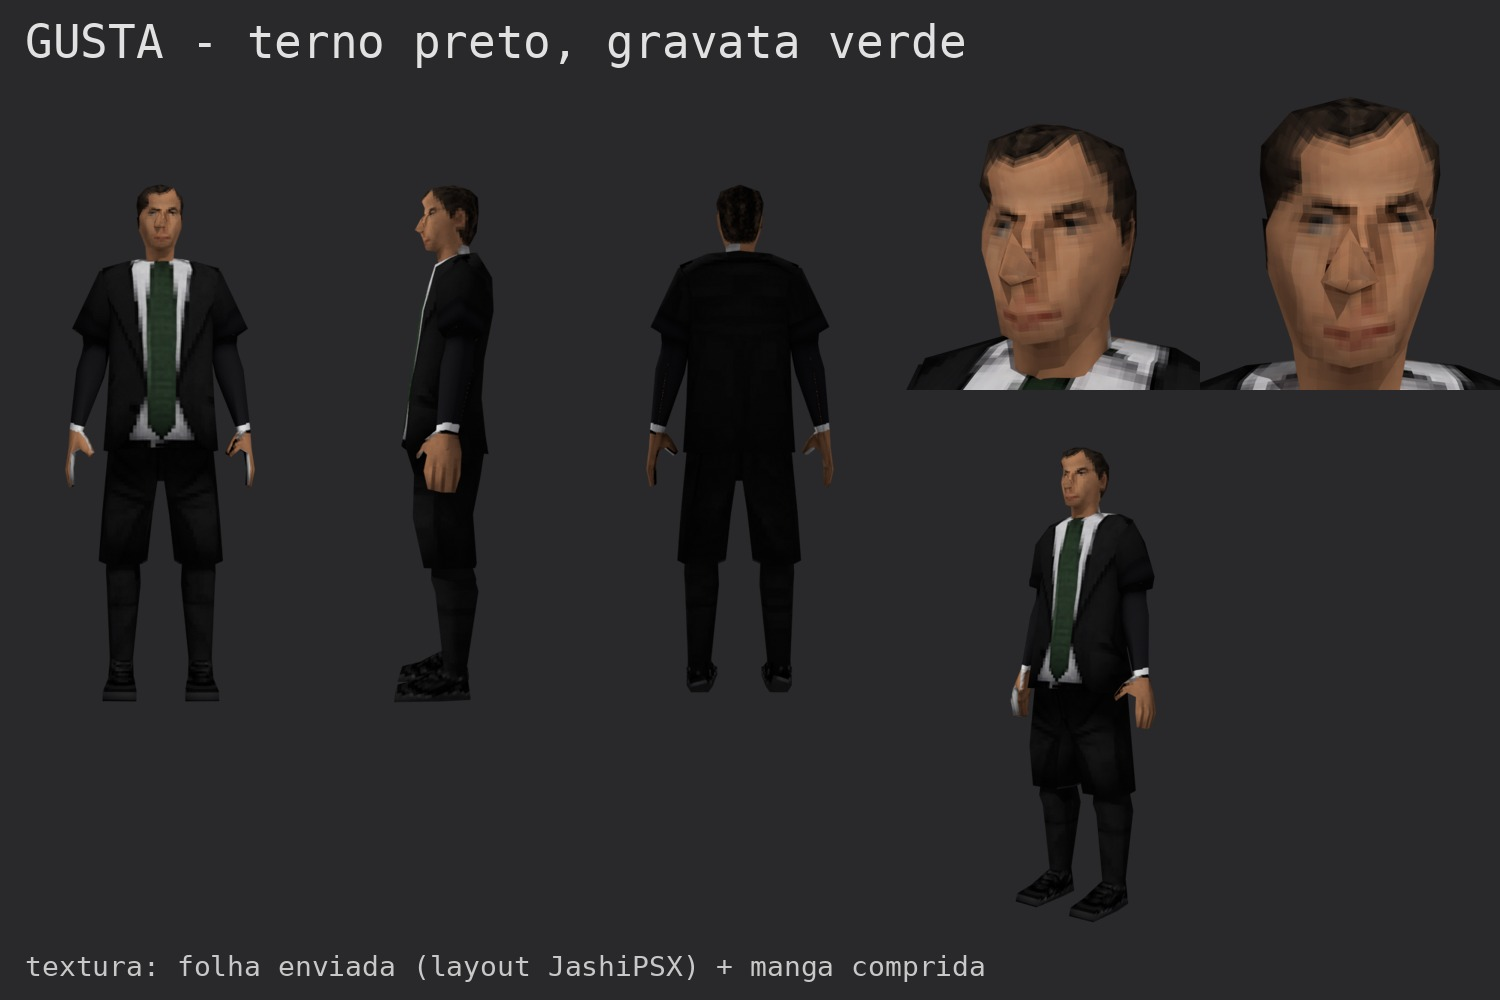
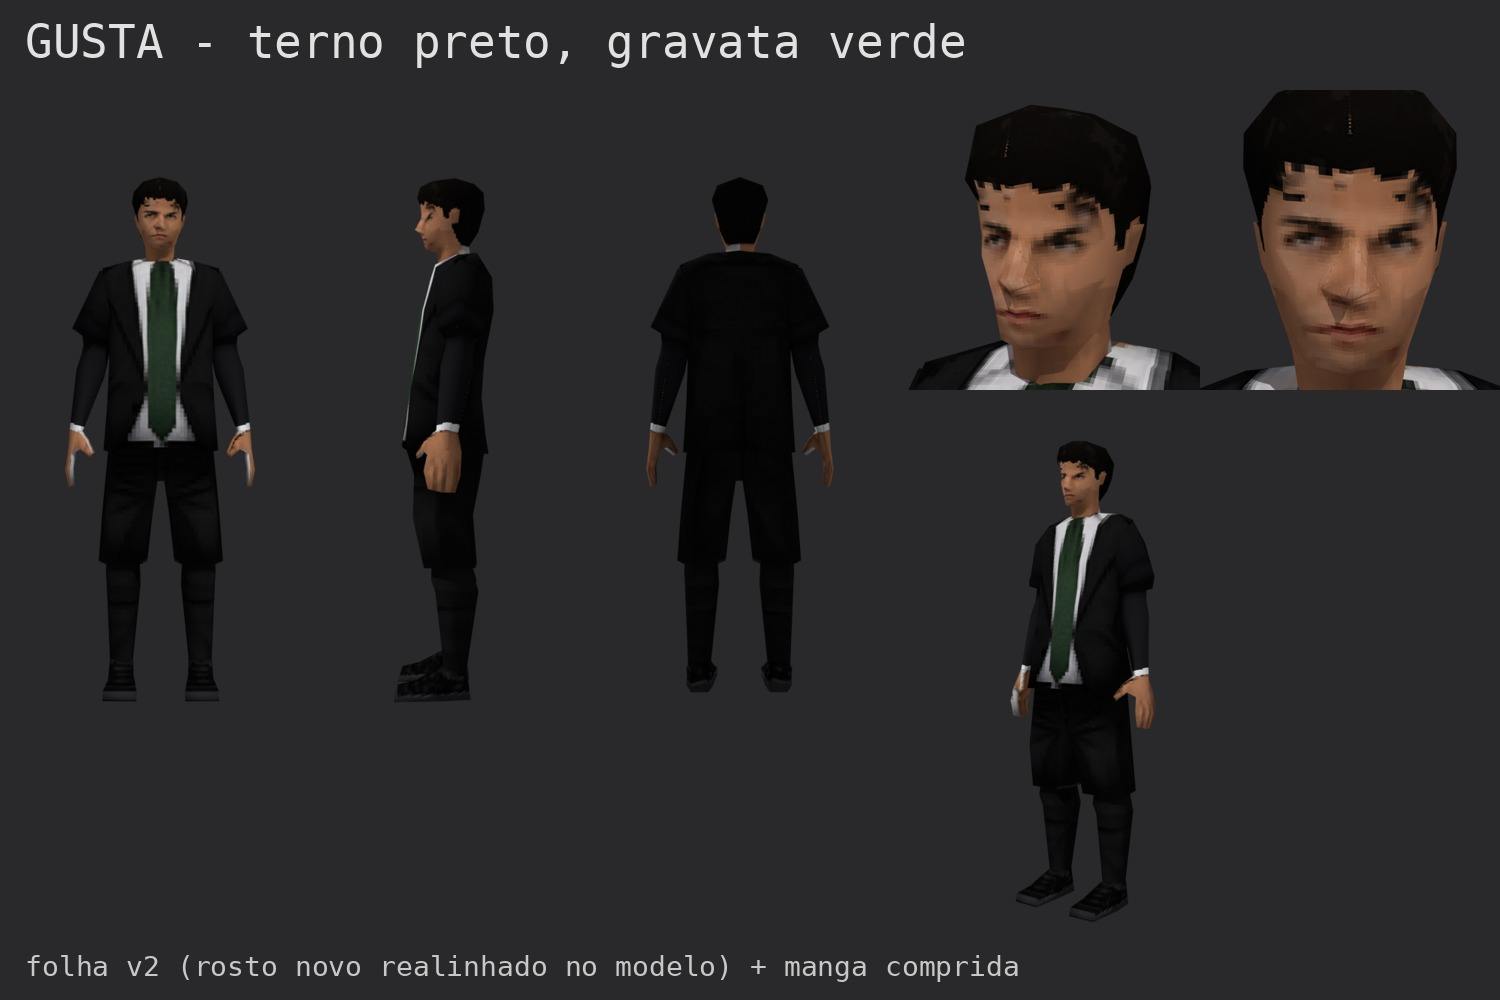
Gusta v2: rosto novo realinhado aos olhos/boca do modelo, cabelo refeito na forma original
Claude-Session: https://claude.ai/code/session_01PVUNKmUDvaP2jpRAvnz1fM

diff --git a/tools/realinhar_rosto.py b/tools/realinhar_rosto.py
@@ -1,0 +1,69 @@
+"""Realinha o rosto de uma folha (layout do Simple PSX Character) desenhada fora de escala: cada texel da frente
+da cabeça busca a cor na folha pela posição 3D (projeção de frente) -> marcos (olhos, boca, queixo, testa) da folha.
+Uso: realinhar_rosto.py tris.json folha.png saida.png "olhoD_u,olhoD_v olhoE_u,olhoE_v boca_u,boca_v queixo_u,queixo_v testa_u,testa_v" """
+import json, sys, math
+sys.path.insert(0, 'tools')
+from rasterizar_texels import texels
+from PIL import Image
+TRIS, FOLHA, OUT, MARCOS = sys.argv[1:5]
+im = Image.open(FOLHA).convert('RGB'); N = im.width; S = im.copy().load(); T = im.load()
+import os
+ORIG = os.environ.get('ORIG')   # textura original do modelo: onde ela é cabelo, não projeta o rosto
+OR = Image.open(ORIG).convert('RGB').resize((N, N), Image.NEAREST).load() if ORIG else None
+CZ, ESC = 1.86, 0.4
+ORTO = [(200, 215), (312, 215), (256, 330), (256, 375), (256, 160)]       # olhoD, olhoE, boca, queixo, testa (câmera de frente)
+NOVO = [tuple(float(v) for v in m.split(',')) for m in MARCOS.split()]
+# afim por mínimos quadrados: [u v] = [mx my 1] @ A
+def resolve(X, y):   # 3x3 normal equations
+    import itertools
+    XtX = [[sum(X[k][i] * X[k][j] for k in range(len(X))) for j in range(3)] for i in range(3)]
+    Xty = [sum(X[k][i] * y[k] for k in range(len(X))) for i in range(3)]
+    M = [r + [v] for r, v in zip(XtX, Xty)]
+    for c in range(3):
+        p = max(range(c, 3), key=lambda r: abs(M[r][c])); M[c], M[p] = M[p], M[c]
+        for r in range(3):
+            if r != c:
+                f = M[r][c] / M[c][c]; M[r] = [a - f * b for a, b in zip(M[r], M[c])]
+    return [M[i][3] / M[i][i] for i in range(3)]
+X = [[mx, my, 1] for mx, my in ORTO]
+Au = resolve(X, [u for u, v in NOVO]); Av = resolve(X, [v for u, v in NOVO])
+for (mx, my), (u, v) in zip(ORTO, NOVO):
+    print('marco', (mx, my), '->', (round(Au[0] * mx + Au[1] * my + Au[2]), round(Av[0] * mx + Av[1] * my + Av[2])), 'alvo', (u, v))
+L = [t for t in json.load(open(TRIS)) if t['obj'] == 'head' and t['mat'] != 'glass']
+n = 0
+for x, y, p, t in texels(L, N):
+    X_, Y_, Z_ = p; nn = t['n']
+    if nn[1] > 0.10 or Z_ < 1.70 or Z_ > 1.99: continue
+    mx, my = X_ / ESC * 512 + 256, (CZ - Z_) / ESC * 512 + 256
+    w = max(0.0, min(1.0, (1 - math.hypot((mx - 256) / 96, (my - 250) / 150)) / 0.22)) * min(1.0, (0.10 - nn[1]) / 0.30)
+    if w <= 0: continue
+    if OR is not None:
+        r, g, b = OR[x, y]
+        if (r + g + b) / 3 < 75 and Z_ > 1.93: continue          # cabelo do modelo original (topo)
+    mx = min(max(mx, 160), 352)   # testa acima disso: repete a pele da testa (o cabelo da folha fica mais baixo)
+    u = Au[0] * mx + Au[1] * my + Au[2]; v = Av[0] * mx + Av[1] * my + Av[2]
+    if not (0 <= u < N - 1 and 0 <= v < N - 1): continue
+    c = S[int(u), int(v)]; o = T[x, y]
+    T[x, y] = tuple(int(o[i] * (1 - w) + c[i] * w) for i in range(3)); n += 1
+# 2ª passada: onde o modelo original é cabelo -> cabelo (cor da folha, textura do original); sobra solta na têmpora -> pele
+if OR is not None:
+    CAB = [0, 0, 0]; k = 0
+    for xx in range(1180, 1240, 4):
+        for yy in range(420, 760, 8):
+            c = S[min(xx, N - 1), yy]
+            if sum(c) / 3 < 90: CAB = [CAB[i] + c[i] for i in range(3)]; k += 1
+    CAB = [v / max(k, 1) for v in CAB]
+    PELE = S[int(Au[0] * 256 + Au[1] * 250 + Au[2]), int(Av[0] * 256 + Av[1] * 250 + Av[2])]
+    print('cabelo', [int(v) for v in CAB], 'pele', PELE)
+    m = 0
+    for x, y, p, t in texels(L, N):
+        X_, Y_, Z_ = p; r, g, b = OR[x, y]; l = (r + g + b) / 3
+        mx_, my_ = X_ / ESC * 512 + 256, (CZ - Z_) / ESC * 512 + 256
+        dentro = math.hypot((mx_ - 256) / 80, (my_ - 255) / 105) < 1 and t['n'][1] < -0.3   # olhos/sobrancelha do original
+        if l < 75 and not dentro:
+            f = max(0.6, min(1.5, l / 40)); T[x, y] = tuple(int(min(255, CAB[i] * f)) for i in range(3)); m += 1
+        elif Z_ > 1.83 and t['n'][1] > -0.5 and abs(X_) > 0.05:
+            mx = X_ / ESC * 512 + 256
+            if abs(mx - 256) > 60: T[x, y] = tuple(int(PELE[i] * (0.9 + 0.1 * (l / 160))) for i in range(3))
+    print('cabelo texels', m)
+im.save(OUT); print('texels', n)

diff --git a/tools/blender/montar_jashi.py b/tools/blender/montar_jashi.py
@@ -1,6 +1,6 @@
 """Abre o Simple PSX Character (JashiPSX), troca a textura e tira os óculos (lente + armação).
 Uso: blender -b --disable-autoexec base.blend --python montar_jashi.py -- textura.png saida.blend"""
-import bpy, bmesh, sys
+import bpy, bmesh, sys, os
 TEX, OUT = sys.argv[sys.argv.index('--') + 1:]
 img = bpy.data.images.load(bpy.path.abspath('//') and __import__('os').path.abspath(TEX)); img.pack()
 for m in bpy.data.materials:
@@ -18,7 +18,7 @@ bmesh.ops.delete(bm, geom=fora, context='FACES')
 import mathutils
 C = mathutils.Vector((0.0, -0.01, 1.875))
 mw = h.matrix_world; inv = mw.inverted()
-for v in bm.verts:
+for v in (bm.verts if os.environ.get('CABELO_CURTO', '1') == '1' else []):
     w = mw @ v.co
     if w.z > 1.90 or (w.y > 0.02 and w.z > 1.80):
         d = w - C; f = 0.84 if w.z > 1.92 else (0.90 if w.z > 1.88 else 0.95)

diff --git a/material/producao/personagens/gusta/LEIA.md b/material/producao/personagens/gusta/LEIA.md
@@ -3,3 +3,8 @@
   reduzida pra 512 + manga comprida até o pulso (tools/manga_comprida.py).
 - Montagem: `blender -b --disable-autoexec material/producao/modelos-pagos/simple_character_psx/simple-character-psx.blend --python tools/blender/montar_jashi.py -- texturas/gusta_512.png gusta.blend` (tira os óculos).
 - Arquivo 3D fica fora do git (licença do JashiPSX). Falta: animações.
+
+## v2 (rosto novo)
+- Folha: material/personagens/ref/gusta-textura-alvo-v2.png. O rosto veio maior que o espaço do modelo: realinhado com
+  `ORIG=.../character_256.png python3 tools/realinhar_rosto.py tris.json folha.png saida.png "1116,565 1121,640 1018,602 981,602 1176,600"`
+  (marcos na folha: olho D, olho E, boca, queixo, testa) -> reduz pra 512 -> tools/manga_comprida.py -> montar_jashi.py com CABELO_CURTO=0.
